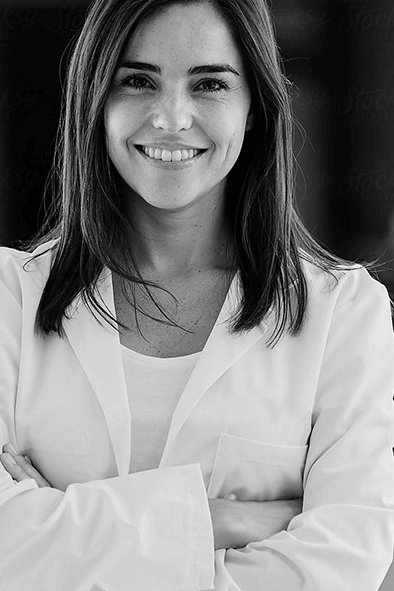
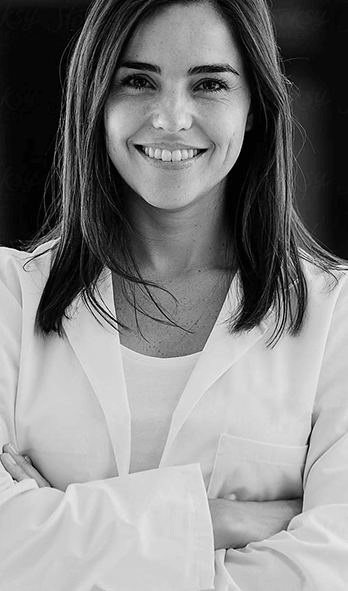
Added photos change depending on screen width

diff --git a/src/plugins/watchViewportWidth.js b/src/plugins/watchViewportWidth.js
@@ -1,0 +1,37 @@
+import Vue from 'vue'
+
+const screenObservable = Vue.observable(
+  {
+    mode: 'mobile',
+    availableMods: {
+      MOBILE: 'mobile',
+      TABLET: 'tablet',
+      DESKTOP: 'desktop'
+    },
+    width: 0
+  }
+)
+
+const { availableMods } = screenObservable
+
+const resizeListener = () => {
+  const width = window.innerWidth
+  screenObservable.width = width
+
+  if (width >= 992) {
+    screenObservable.mode = availableMods.DESKTOP
+  } else if (width >= 576) {
+    screenObservable.mode = availableMods.TABLET
+  } else {
+    screenObservable.mode = availableMods.MOBILE
+  }
+}
+
+export default {
+  install (Vue, options) {
+    resizeListener()
+    window.addEventListener('resize', resizeListener)
+
+    Vue.prototype.$screen = screenObservable
+  }
+}

diff --git a/src/components/global/ImageTextWrapper.vue b/src/components/global/ImageTextWrapper.vue
@@ -25,9 +25,19 @@ export default {
     }
   },
   computed: {
+    mode() {
+      return this.$screen.mode
+    },
+    backgroundImage() {
+      if (this.visual.elementMobile) {
+        return this.mode === 'mobile' ? this.visual.elementMobile : this.visual.element
+      } else {
+        return this.visual.element
+      }
+    },
     style() {
       return `
-        background-image: url(${this.visual.element});
+        background-image: url(${this.backgroundImage});
         background-position: ${this.visual.position || 'center'}
       `
     }

diff --git a/src/components/solutions/index.vue b/src/components/solutions/index.vue
@@ -18,11 +18,12 @@ export default {
     SolutionsTexts,
     SolutionsButtons
   },
-  data() {
-    return {
-      visual: {
+  computed: {
+    visual() {
+      return {
+        elementMobile: require('@/assets/solutions-visual-mobile.png'),
         element: require('@/assets/solutions-visual.png'),
-        position: 'top left'
+        position: 'top center'
       }
     }
   }

diff --git a/src/main.js b/src/main.js
@@ -1,9 +1,12 @@
 import Vue from 'vue'
 import App from './App.vue'
 import registerGlobalComponents from '@/registerGlobalComponents'
+import watchViewportWidth from '@/plugins/watchViewportWidth'
 
 Vue.config.productionTip = false
 registerGlobalComponents(Vue)
+
+Vue.use(watchViewportWidth)
 
 new Vue({
   render: h => h(App)

diff --git a/src/components/about/index.vue b/src/components/about/index.vue
@@ -35,6 +35,7 @@ export default {
   data() {
     return {
       visual: {
+        elementMobile: require('@/assets/about-visual-mobile.png'),
         element: require('@/assets/about-visual.png'),
         position: 'top right'
       }
